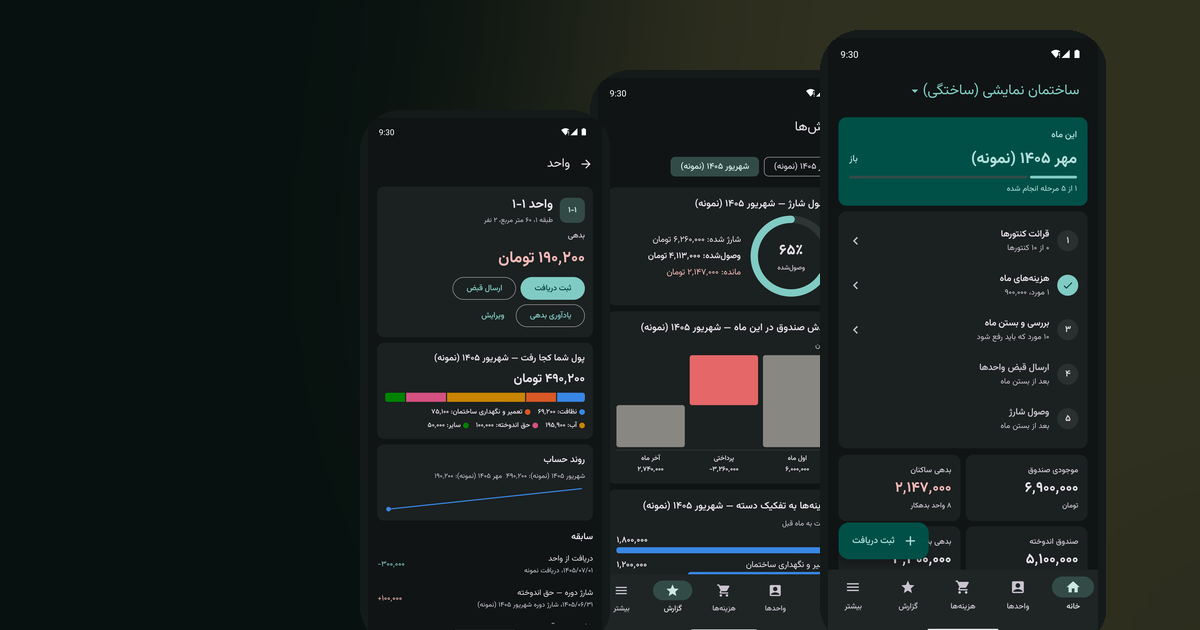
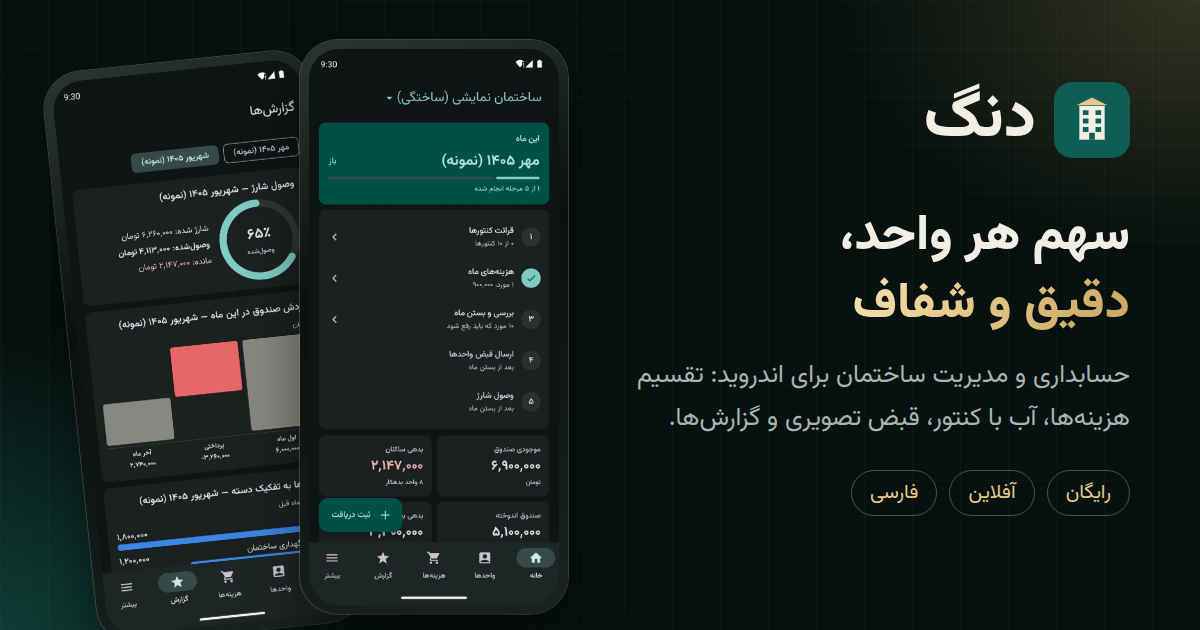
feat(site): full link-preview metadata and a new social card
Claude-Session: https://claude.ai/code/session_01VDw4EQ63FgXF75W3y3VMMs

diff --git a/site/index.html b/site/index.html
@@ -7,13 +7,28 @@
 <meta name="description" content="دنگ سهم هر واحد از هزینههای ساختمان را دقیق و شفاف حساب میکند: شارژ، آب با کنتور، پارکینگ، اندوخته، قبض تصویری و گزارشهای نموداری. کاملاً آفلاین، بدون ثبتنام و بدون تبلیغ.">
 <meta name="theme-color" content="#07110F">
 <meta name="color-scheme" content="dark">
+<link rel="canonical" href="https://opscalehub.github.io/Dong/">
 <link rel="icon" href="assets/icon.svg" type="image/svg+xml">
+<link rel="icon" href="assets/icon-512.png" type="image/png" sizes="512x512">
+<link rel="apple-touch-icon" href="assets/apple-touch-icon.png">
+<!-- Link previews (Telegram, WhatsApp, X, LinkedIn, Facebook, Slack, Discord). -->
 <meta property="og:type" content="website">
+<meta property="og:site_name" content="دنگ">
 <meta property="og:locale" content="fa_IR">
+<meta property="og:url" content="https://opscalehub.github.io/Dong/">
 <meta property="og:title" content="دنگ — سهم هر واحد، دقیق و شفاف">
-<meta property="og:description" content="حسابداری ساختمان برای اندروید: تقسیم هوشمند هزینهها، آب با کنتور، قبض تصویری و گزارشهای نموداری. کاملاً آفلاین.">
-<meta property="og:image" content="https://opscalehub.github.io/Dong/assets/og.png">
+<meta property="og:description" content="حسابداری و مدیریت ساختمان برای اندروید: تقسیم هوشمند هزینهها، آب با کنتور، قبض تصویری و گزارشهای نموداری. رایگان، فارسی و بدون نیاز به اینترنت.">
+<meta property="og:image" content="https://opscalehub.github.io/Dong/assets/og.png?v=2">
+<meta property="og:image:secure_url" content="https://opscalehub.github.io/Dong/assets/og.png?v=2">
+<meta property="og:image:type" content="image/png">
+<meta property="og:image:width" content="1200">
+<meta property="og:image:height" content="630">
+<meta property="og:image:alt" content="دنگ: صفحه خانه و گزارشهای برنامه، با عنوان «سهم هر واحد، دقیق و شفاف»">
 <meta name="twitter:card" content="summary_large_image">
+<meta name="twitter:title" content="دنگ — سهم هر واحد، دقیق و شفاف">
+<meta name="twitter:description" content="حسابداری و مدیریت ساختمان برای اندروید: تقسیم هوشمند هزینهها، آب با کنتور، قبض تصویری و گزارشهای نموداری. رایگان، فارسی و بدون نیاز به اینترنت.">
+<meta name="twitter:image" content="https://opscalehub.github.io/Dong/assets/og.png?v=2">
+<meta name="twitter:image:alt" content="دنگ: صفحه خانه و گزارشهای برنامه، با عنوان «سهم هر واحد، دقیق و شفاف»">
 <link rel="preconnect" href="https://fonts.googleapis.com">
 <link rel="preconnect" href="https://fonts.gstatic.com" crossorigin>
 <link href="https://fonts.googleapis.com/css2?family=Vazirmatn:wght@300;400;500;600;700;800&display=swap" rel="stylesheet">
